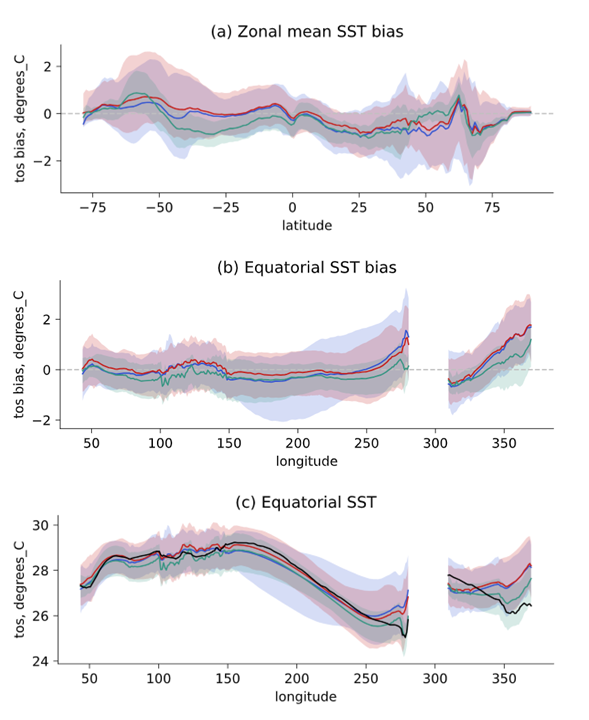
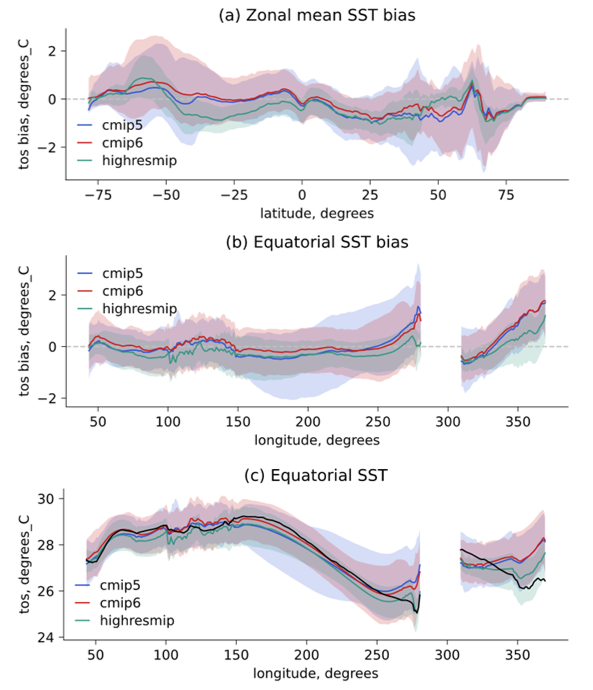
add x_label

Changed region(s): [[0.0, 0.3652, 0.9474, 1.0], [0.0306, 0.0304, 0.9474, 0.3957], [0.3362, 0.0, 0.7029, 0.0609]]

diff --git a/esmvaltool/diag_scripts/ocean/diagnostic_biases.py b/esmvaltool/diag_scripts/ocean/diagnostic_biases.py
@@ -354,7 +354,9 @@ def plot_bias_plot(data_list: list[Data4Analyis], cfg: dict):
 
     plt.legend()
     plt.title(caption)
-    plt.xlabel(data_list[0].best_guess.dim_coords[0].name())
+    x_label = data_list[0].best_guess.dim_coords[0].name()
+    x_label += f", {data_list[0].best_guess.dim_coords[0].units}"
+    plt.xlabel(x_label)
     y_label = data_list[0].best_guess.var_name
     y_label = y_label + " bias" if cfg.get("bias") else y_label
     y_label = y_label + f", {data_list[0].best_guess.units.origin}"
